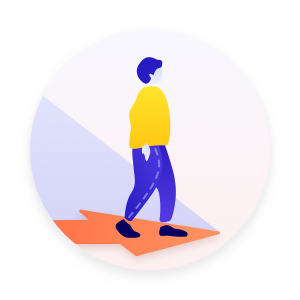
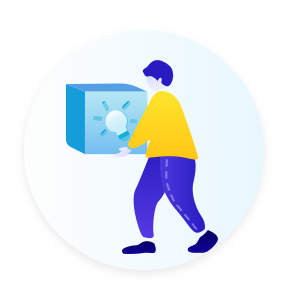
Header 'Services'

Changed region(s): [[0.09, 0.18, 0.75, 0.87]]

diff --git a/assets/app/style/brand.scss b/assets/app/style/brand.scss
@@ -28,6 +28,6 @@ $c-mentors: #FF5B34;
 $gradient-mentors: linear-gradient(to bottom, #f8f8ff, #fdefef);
 $gradient-mentors-body:linear-gradient(to right, #fffefe, #fdefef);
 
-$c-services: #FF5B34;
-$gradient-services: linear-gradient(to bottom, #f8f8ff, #fdefef);
-$gradient-services-body:linear-gradient(to right, #fffefe, #fdefef);
+$c-services: #00A7D8;
+$gradient-services: linear-gradient(to right, #e8f7ff, #fffefe);
+$gradient-services-body:linear-gradient(to right, #fffefe, #e8f7ff);
